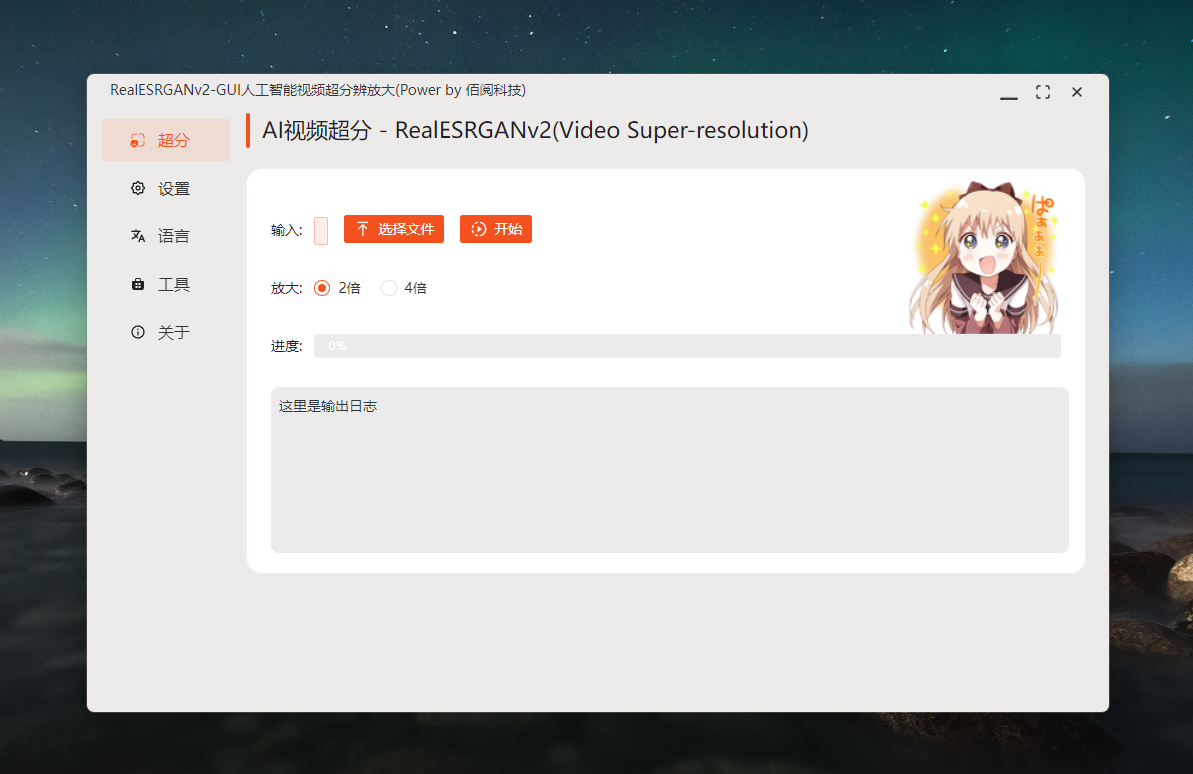
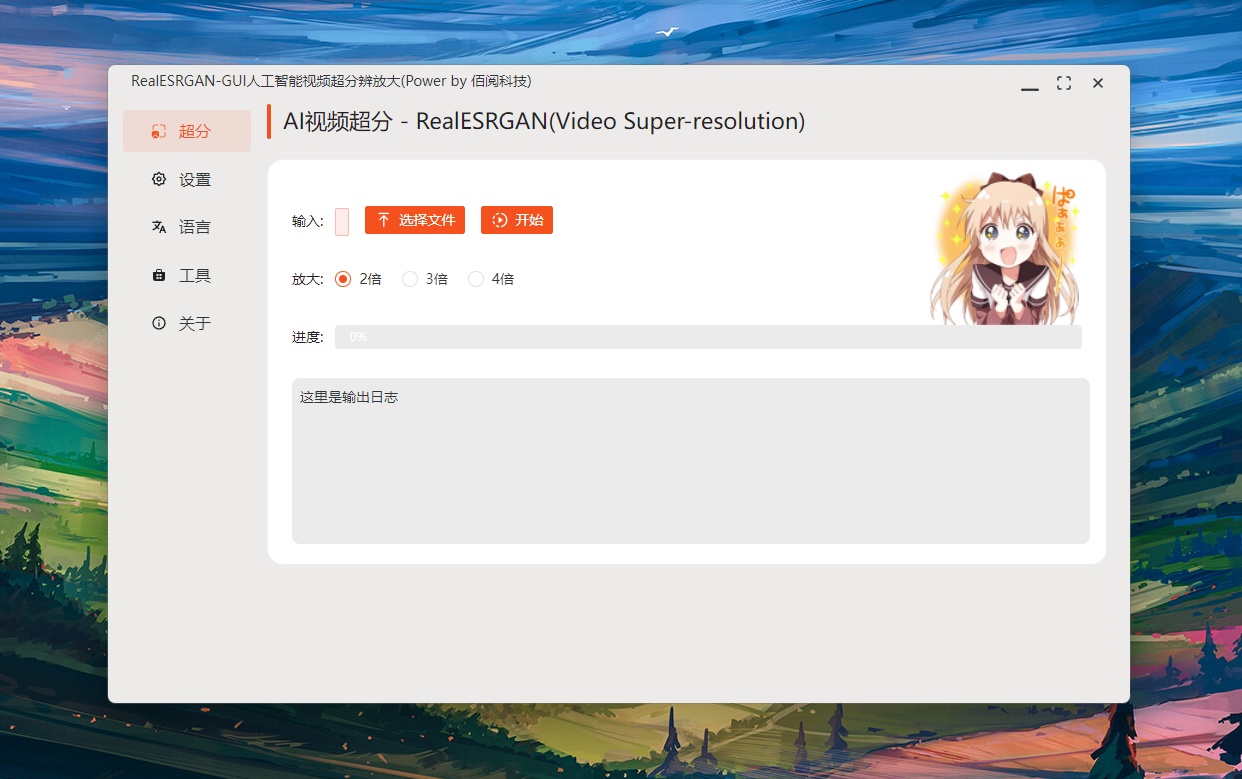
升级realsrgan算法v2->v3

diff --git a/README_en.md b/README_en.md
@@ -18,7 +18,7 @@ Paper2GUI: An AI desktop APP toolbox for common people, free installation and re
 | Name             | Size   | Model        | Multi-language | Windows | Mac | Linux | Download                                                                                                                    |
 | ---------------- | ------ | ------------ | -------------- | ------- | --- | ----- | --------------------------------------------------------------------------------------------------------------------------- |
 | waifu2x-GUI      | 38.9Mb | waifu2x      | 🔲              | ✅       | 🔲   | 🔲     | [Github](https://github.com/Baiyuetribe/paper2gui/releases/tag/Published) [云盘](https://www.aliyundrive.com/s/2b4hyudGkni) |
-| RealESRGANv2-GUI | 29Mb   | RealESRGANv2 | 🔲              | ✅       | 🔲   | 🔲     | [Github](https://github.com/Baiyuetribe/paper2gui/releases/tag/Published) [云盘](https://www.aliyundrive.com/s/2b4hyudGkni) |
+| RealESRGANv2-GUI | 28.8Mb | RealESRGANv2 | 🔲              | ✅       | 🔲   | 🔲     | [Github](https://github.com/Baiyuetribe/paper2gui/releases/tag/Published) [云盘](https://www.aliyundrive.com/s/2b4hyudGkni) |
 | RealCugan-GUI    | 56.4Mb | RealCugan    | 🔲              | ✅       | 🔲   | 🔲     | [Github](https://github.com/Baiyuetribe/paper2gui/releases/tag/Published) [云盘](https://www.aliyundrive.com/s/2b4hyudGkni) |
 | RealSR-GUI       | 94.5Mb | RealSR       | 🔲              | ✅       | 🔲   | 🔲     | [Github](https://github.com/Baiyuetribe/paper2gui/releases/tag/Published) [云盘](https://www.aliyundrive.com/s/2b4hyudGkni) |
 |                  |        |              |                |         |     |       |                                                                                                                             |

diff --git a/Video Super Resolution/RealESRGAN-GUI.md b/Video Super Resolution/RealESRGAN-GUI.md
@@ -13,7 +13,7 @@
 ## 软件特点
 
 - 操作简单、即开即用
-- 支持放大2倍、4倍
+- 支持放大2倍、3倍、4倍
 - 特别适合动漫处理
 - 去模糊明显
 - 支持单张图片或视频放大
@@ -23,7 +23,7 @@
 
 ## 使用场景：
 
-- 动漫处理优秀，比waifu2x速度慢，但是质量高
+- 动漫处理优秀，比waifu2x速度慢一倍，但是质量高，动漫超分最佳选择
 
 ## 案例展示
 
@@ -51,6 +51,9 @@
 
 <https://raw.githubusercontent.com/Baiyuetribe/paper2gui/main/docs/video/vsr/onepiece_demo_RealESRGANv2_2X_0429182058.mp4>
 
+## 变更日志：
+
+- 2022-04-29 从v2算法升级到v3，速度提升明显，可替代waifu2x成为动漫超分最佳选择
 
 ## 下载地址：
 

diff --git a/Video Super Resolution/readme.md b/Video Super Resolution/readme.md
@@ -37,12 +37,13 @@
 
 <https://cdn.jsdelivr.net/gh/Baiyuetribe/paper2gui@main/docs/video/vsr/onepiece_demo.mp4>
 
-| 算法       | 超分耗时 | 转换质量 |
-| ---------- | -------- | -------- |
-| waifu2x    | 4.30秒   | 差       |
-| RealCugan  | 17.01秒  | 优       |
-| RealESRGAN | 21.91秒  | 优       |
-| RealSR     | -        | -        |
+| 算法           | 超分耗时 | 转换质量 |
+| -------------- | -------- | -------- |
+| waifu2x        | 4.30秒   | 差       |
+| RealESRGAN     | 8.6秒    | 优       |
+| RealCugan      | 17.01秒  | 优       |
+| RealESRGAN(v2) | 21.91秒  | 优       |
+| RealSR         | -        | -        |
 
 实际效果：
 
